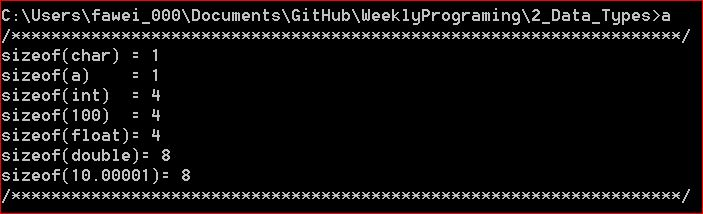
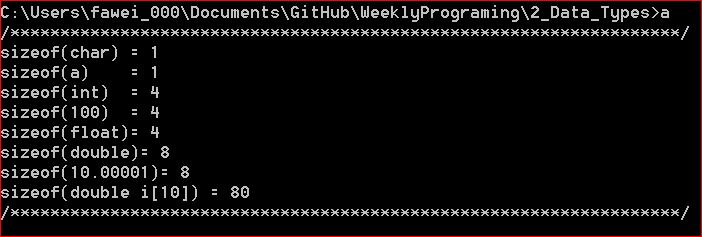
11/17/2014

Changed region(s): [[0.0, 0.0, 1.0, 1.0]]

diff --git a/2_Data_Types/2_DataTypes.c b/2_Data_Types/2_DataTypes.c
@@ -3,6 +3,7 @@
 #include <stdio.h>
 int main(){
 	char a;
+	double i[10];
 	printf("/*******************************************************************/\n");
 	printf("sizeof(char) = %d\n",sizeof(char));
 	printf("sizeof(a)    = %d\n",sizeof(a));
@@ -11,6 +12,7 @@ int main(){
 	printf("sizeof(float)= %d\n",sizeof(float));
 	printf("sizeof(double)= %d\n",sizeof(double));
 	printf("sizeof(10.00001)= %d\n",sizeof(10.00001));
+	printf("sizeof(double i[10]) = %d\n",sizeof(i));
 	printf("/*******************************************************************/\n");
 	return 0;
 }
